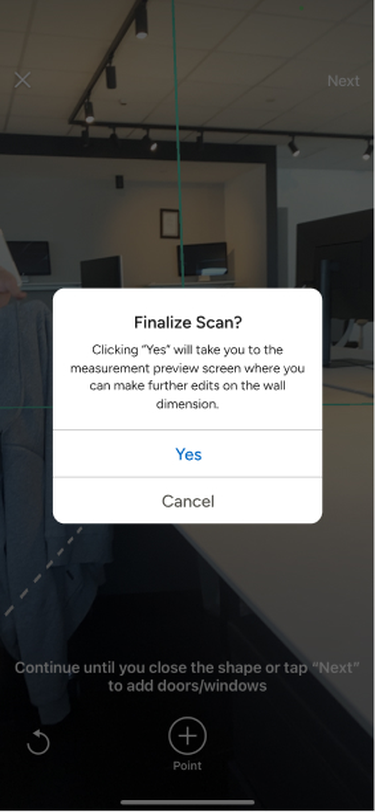
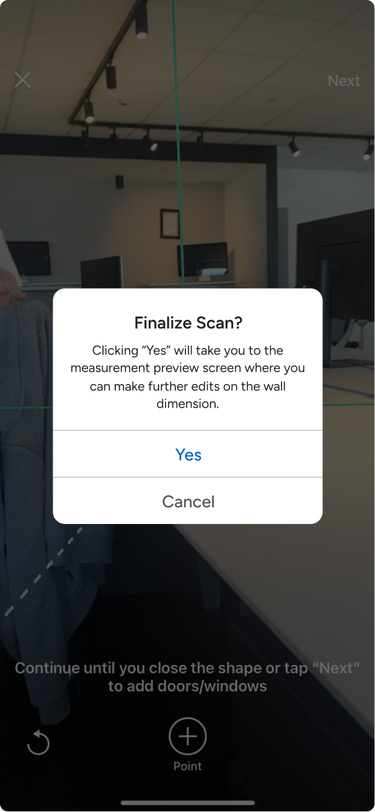
Use the higher-resolution Finalize Scan frame

diff --git a/work/multi-room-mobile-scan.html b/work/multi-room-mobile-scan.html
@@ -565,7 +565,7 @@
     <p>While room placement was unreliable, our first approach used dialogs to guide every transition: finish the room, choose what came next, and save the plan. Each decision was clear, but the room-to-room flow became slow and fragmented.</p>
     <div class="mrx-dialogs">
       <figure><img src="../media/multi-room/feature-intro.png" alt="Onboarding card explaining back-to-back room scanning" width="375" height="812"><figcaption class="mrx-cap">Feature introduction</figcaption></figure>
-      <figure><img src="../media/multi-room/before-preview.png" alt="A Finalize Scan? confirmation dialog over the camera view" width="375" height="812"><figcaption class="mrx-cap">Before previewing the scan</figcaption></figure>
+      <figure><img src="../media/multi-room/before-preview.png?v=2" alt="A Finalize Scan? confirmation dialog over the camera view" width="375" height="812"><figcaption class="mrx-cap">Before previewing the scan</figcaption></figure>
       <figure><img src="../media/multi-room/whats-next.png" alt="A Saved and Ready to Go! dialog asking what comes next" width="375" height="812"><figcaption class="mrx-cap">What's next?</figcaption></figure>
       <figure><img src="../media/multi-room/name-room.png" alt="A form for naming the room before continuing" width="375" height="812"><figcaption class="mrx-cap">Name the room</figcaption></figure>
       <figure><img src="../media/multi-room/save-plan.png" alt="A Save Your Work screen for naming the finished floor plan" width="375" height="812"><figcaption class="mrx-cap">Save plan</figcaption></figure>
